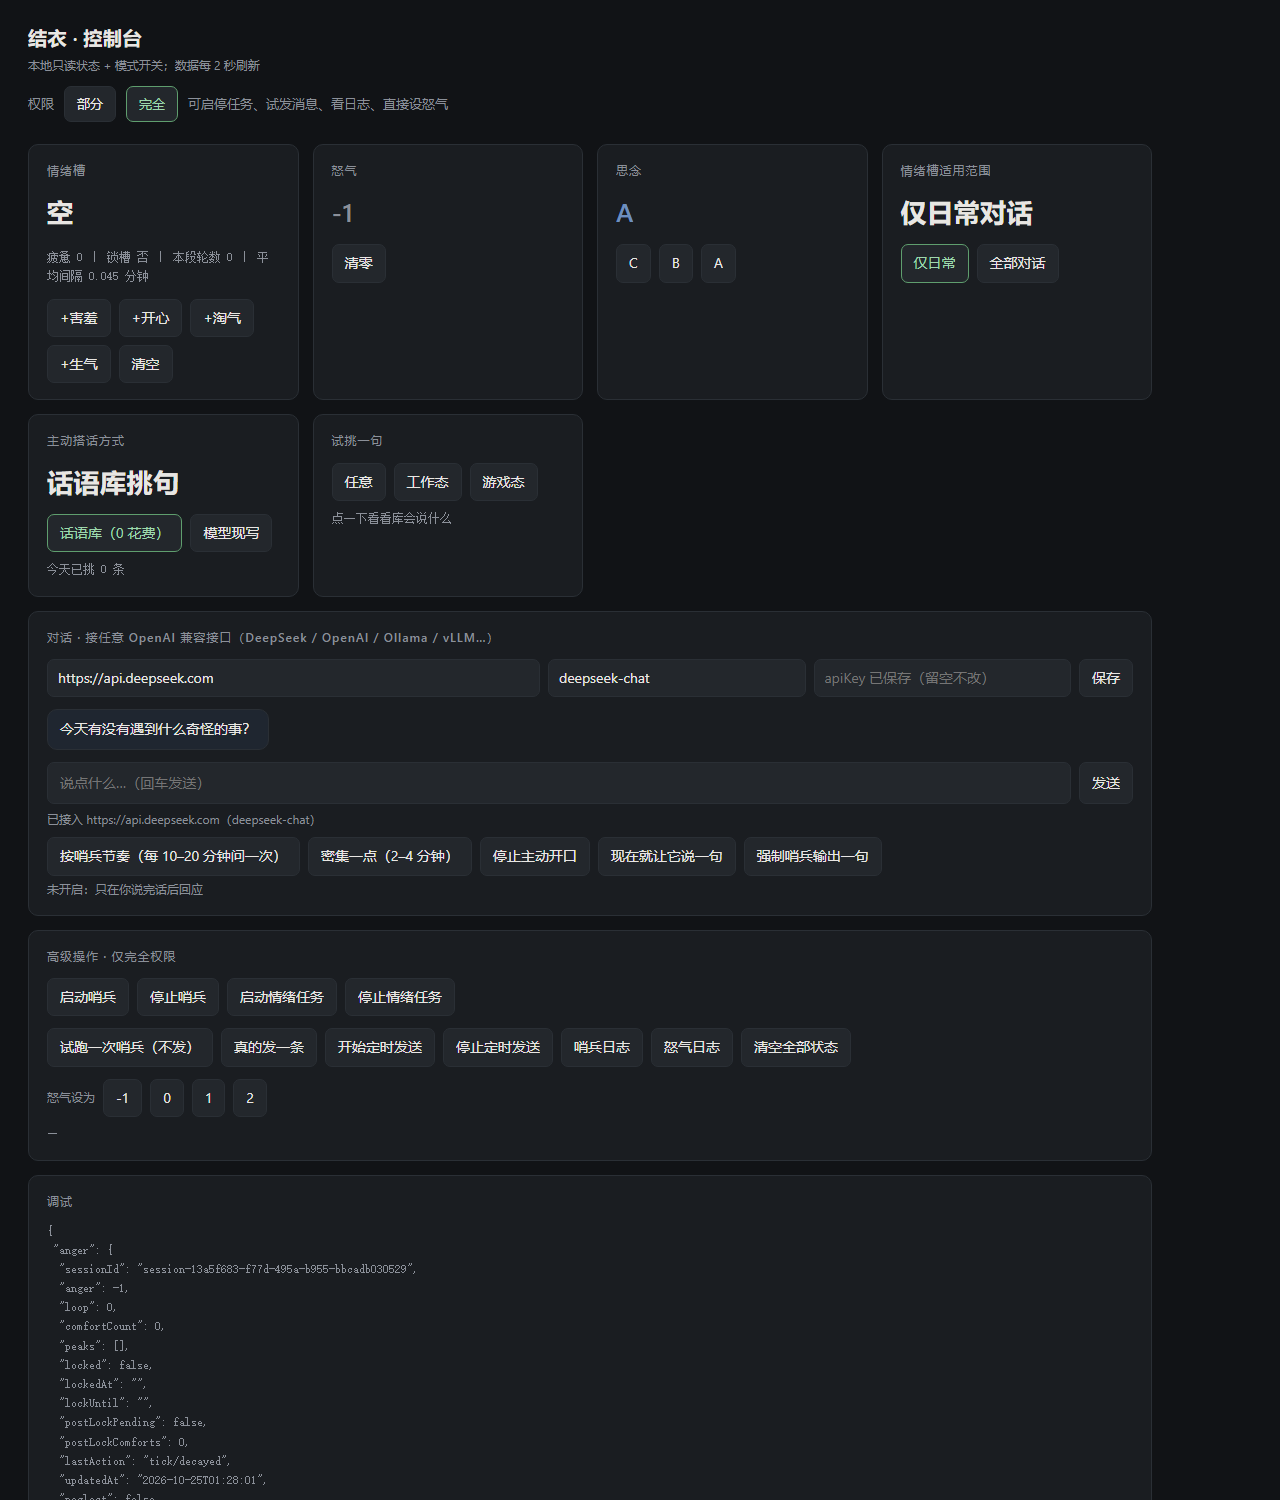
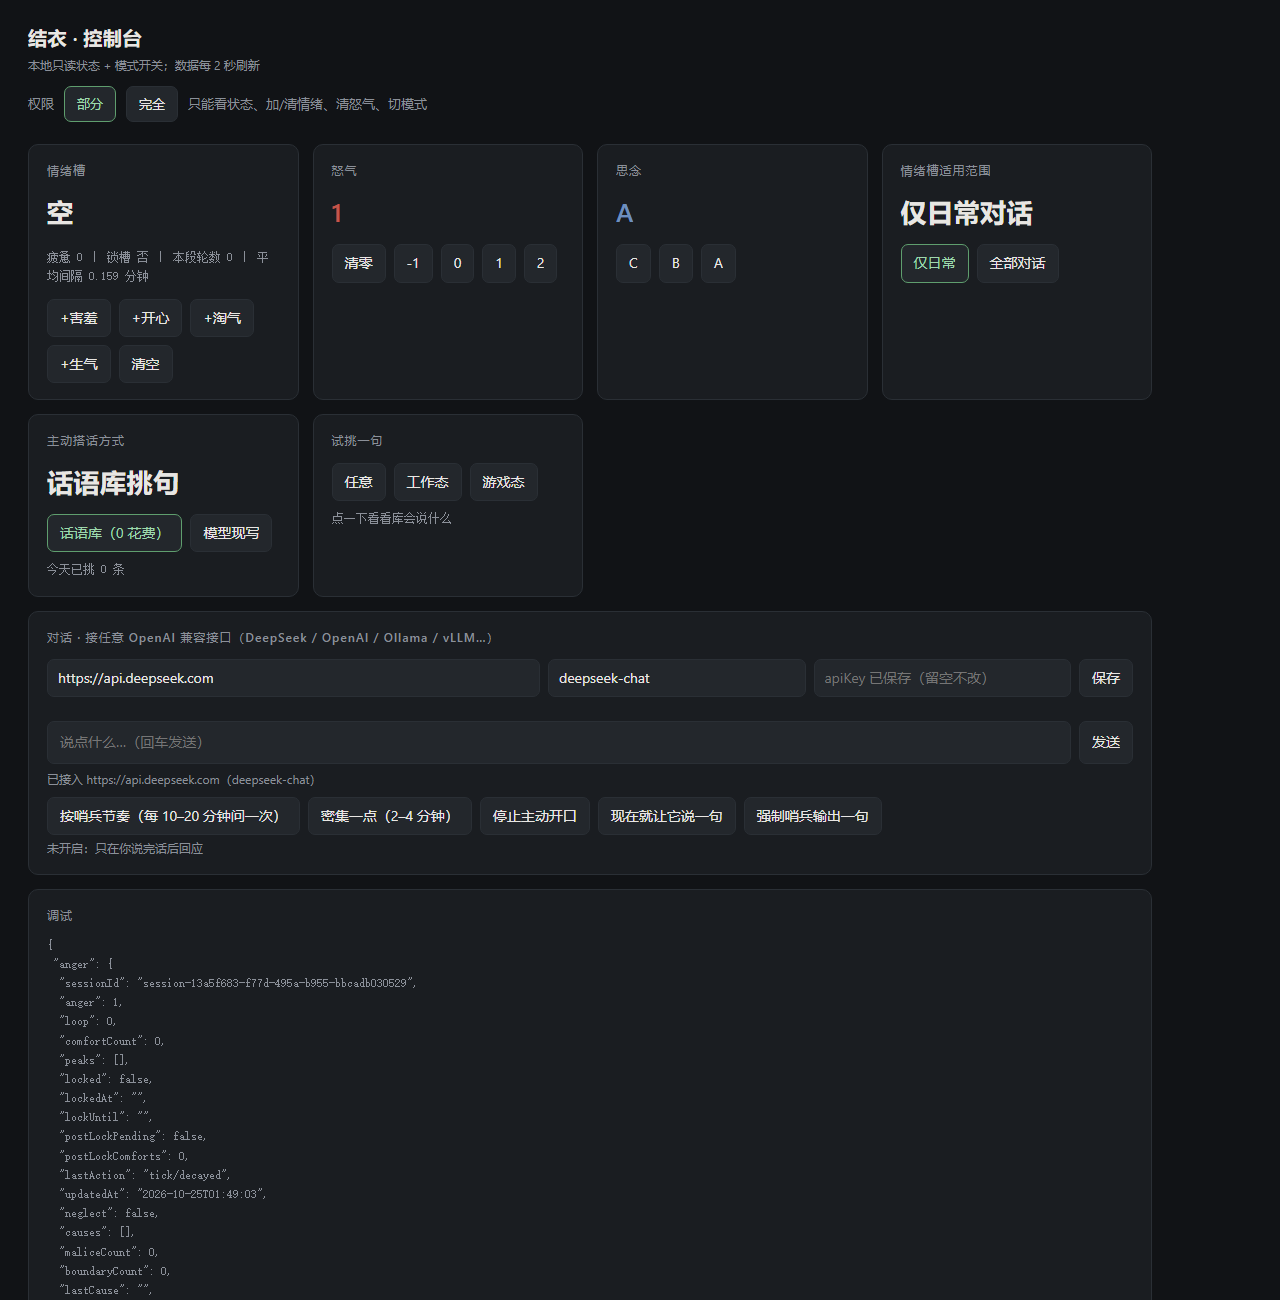
删掉高级操作卡；怒气调整移到怒气卡片，部分权限也能改

diff --git a/app/public/index.html b/app/public/index.html
@@ -57,7 +57,13 @@
     <h2>怒气</h2>
     <div class="big" id="anger">—</div>
     <pre id="anger-raw"></pre>
-    <div class="row"><button onclick="resetAnger()">清零</button></div>
+    <div class="row">
+      <button onclick="resetAnger()">清零</button>
+      <button onclick="angerSet(-1)">-1</button>
+      <button onclick="angerSet(0)">0</button>
+      <button onclick="angerSet(1)">1</button>
+      <button onclick="angerSet(2)">2</button>
+    </div>
   </section>
 
   <section class="card">
@@ -122,30 +128,6 @@
       <button onclick="sentinelForce()">强制哨兵输出一句</button>
     </div>
     <div class="dim" id="proactive-hint" style="font-size:12px;margin-top:4px">未开启：只在你说完话后回应</div>
-  </section>
-
-  <section class="card full" id="adv-card" style="display:none">
-    <h2>高级操作 · 仅完全权限</h2>
-    <div class="row">
-      <button onclick="task('外部哨兵脚本','start')">启动哨兵</button>
-      <button onclick="task('外部哨兵脚本','stop')">停止哨兵</button>
-      <button onclick="task('结衣情绪到期','start')">启动情绪任务</button>
-      <button onclick="task('结衣情绪到期','stop')">停止情绪任务</button>
-    </div>
-    <div class="row">
-      <button onclick="sentinelRun(0)">试跑一次哨兵（不发）</button>
-      <button onclick="logs('sentinel')">哨兵日志</button>
-      <button onclick="logs('anger')">怒气日志</button>
-      <button onclick="resetAll()">清空全部状态</button>
-    </div>
-    <div class="row">
-      <span class="dim" style="align-self:center;font-size:12px">怒气设为</span>
-      <button onclick="angerSet(-1)">-1</button>
-      <button onclick="angerSet(0)">0</button>
-      <button onclick="angerSet(1)">1</button>
-      <button onclick="angerSet(2)">2</button>
-    </div>
-    <pre id="adv-out" style="max-height:260px;overflow:auto">—</pre>
   </section>
 
   <section class="card full">
@@ -294,7 +276,7 @@ function applyPanelMode(mode) {
   pmode = mode === 'full' ? 'full' : 'partial'
   $('pm-partial').className = pmode === 'partial' ? 'on' : ''
   $('pm-full').className = pmode === 'full' ? 'on' : ''
-  $('adv-card').style.display = pmode === 'full' ? '' : 'none'
+  
   $('pm-hint').textContent = pmode === 'full'
     ? '可启停任务、试发消息、看日志、直接设怒气'
     : '只能看状态、加/清情绪、清怒气、切模式'
@@ -305,17 +287,8 @@ async function setPanelMode(mode) {
   await loadPanelMode()
 }
 
-async function adv(url) {
-  const r = await fetch(url)
-  const j = await r.json().catch(() => ({}))
-  $('adv-out').textContent = j.error ? ('错误：' + j.error) : (j.out || 'ok')
-  refresh()
-}
-function task(name, action) { adv('/api/task?name=' + encodeURIComponent(name) + '&action=' + action) }
-function sentinelRun(real) { adv('/api/sentinel-run' + (real ? '?real=1' : '')) }
-function logs(name) { adv('/api/logs?name=' + name) }
-function angerSet(v) { adv('/api/anger-set?value=' + v) }
-function resetAll() { if (confirm('清空怒气、思念、情绪槽？')) adv('/api/reset-all') }
+function angerSet(v) { fetch('/api/anger-set?value=' + v).then(function (r) { return r.json() }).then(function (j) { if (j.error) alert(j.error); refresh() }) }
+function angerSet(v) { fetch('/api/anger-set?value=' + v).then(function (r) { return r.json() }).then(function (j) { if (j.error) alert(j.error); refresh() }) }
 
 loadPanelMode()
 loadCfg()
@@ -355,6 +328,8 @@ setInterval(refresh, 2000)
 </script>
 </body>
 </html>
+
+
 
 
 
